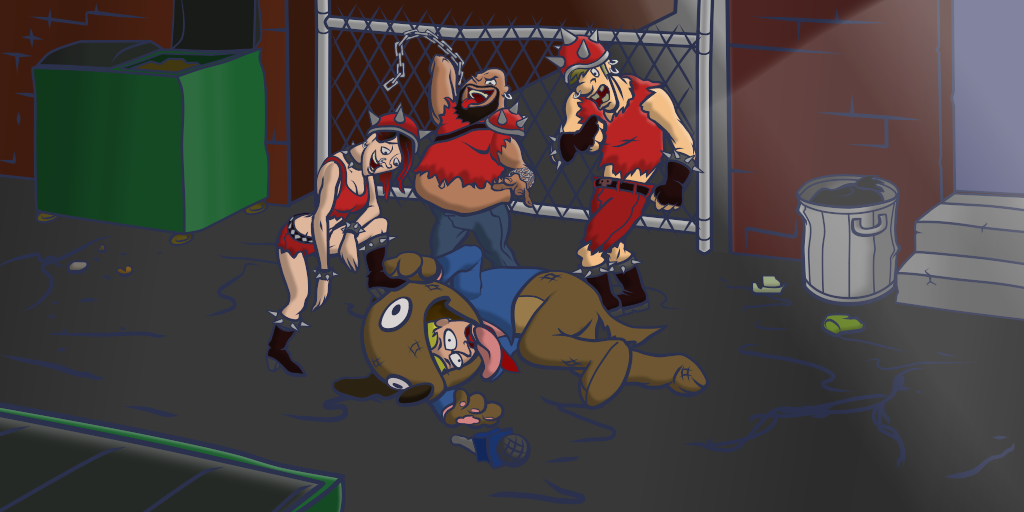
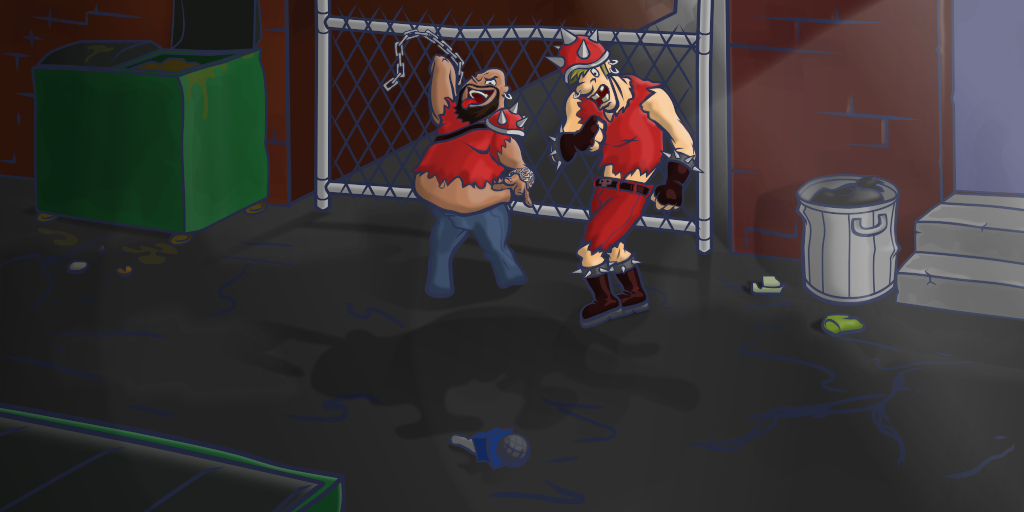
Added spike cutscene pieces

diff --git a/game.js b/game.js
@@ -13929,6 +13929,14 @@ Prop = function(I) {
       }
     });
   });
+  self.bind("drawDebug", function(canvas) {
+    return canvas.drawCircle({
+      x: I.registrationPoint.x,
+      y: I.registrationPoint.y,
+      radius: 5,
+      color: "#F0F"
+    });
+  });
   return self;
 };
 
@@ -14022,7 +14030,27 @@ $(function() {
         text: "Here's a fan now! Hello sir, why are YOU smiling?\n\nHow the HELL should I know?"
       },
       spike: {
-        text: ""
+        text: "",
+        props: [
+          {
+            chick: {
+              x: App.width / 2,
+              y: App.height / 3,
+              rotationFn: function(t) {
+                return Math.sin((t / 0.9 + 0.05) * Math.TAU) * Math.TAU / 600;
+              },
+              registrationPoint: Point(-240, 100)
+            },
+            reporter: {
+              xFn: function(t) {
+                return App.width / 2 + Math.sin((t / 0.9) * Math.TAU) * 10 + Math.sin((t / 0.1) * Math.TAU) * 2;
+              },
+              yFn: function(t) {
+                return App.height / 3;
+              }
+            }
+          }
+        ]
       },
       mutant: {
         text: "MUTANT FEVER! The fans are out in record numbers. Please be advised to stay indoors--\nThere is no cure.",
@@ -19983,5 +20011,9 @@ engine.on("draw", function(canvas) {
 engine.setState(LoaderState({
   nextState: MainMenuState
 }));
+
+$(function() {
+  return engine.setState(Cutscene.scenes.spike);
+});
 
 engine.start();
